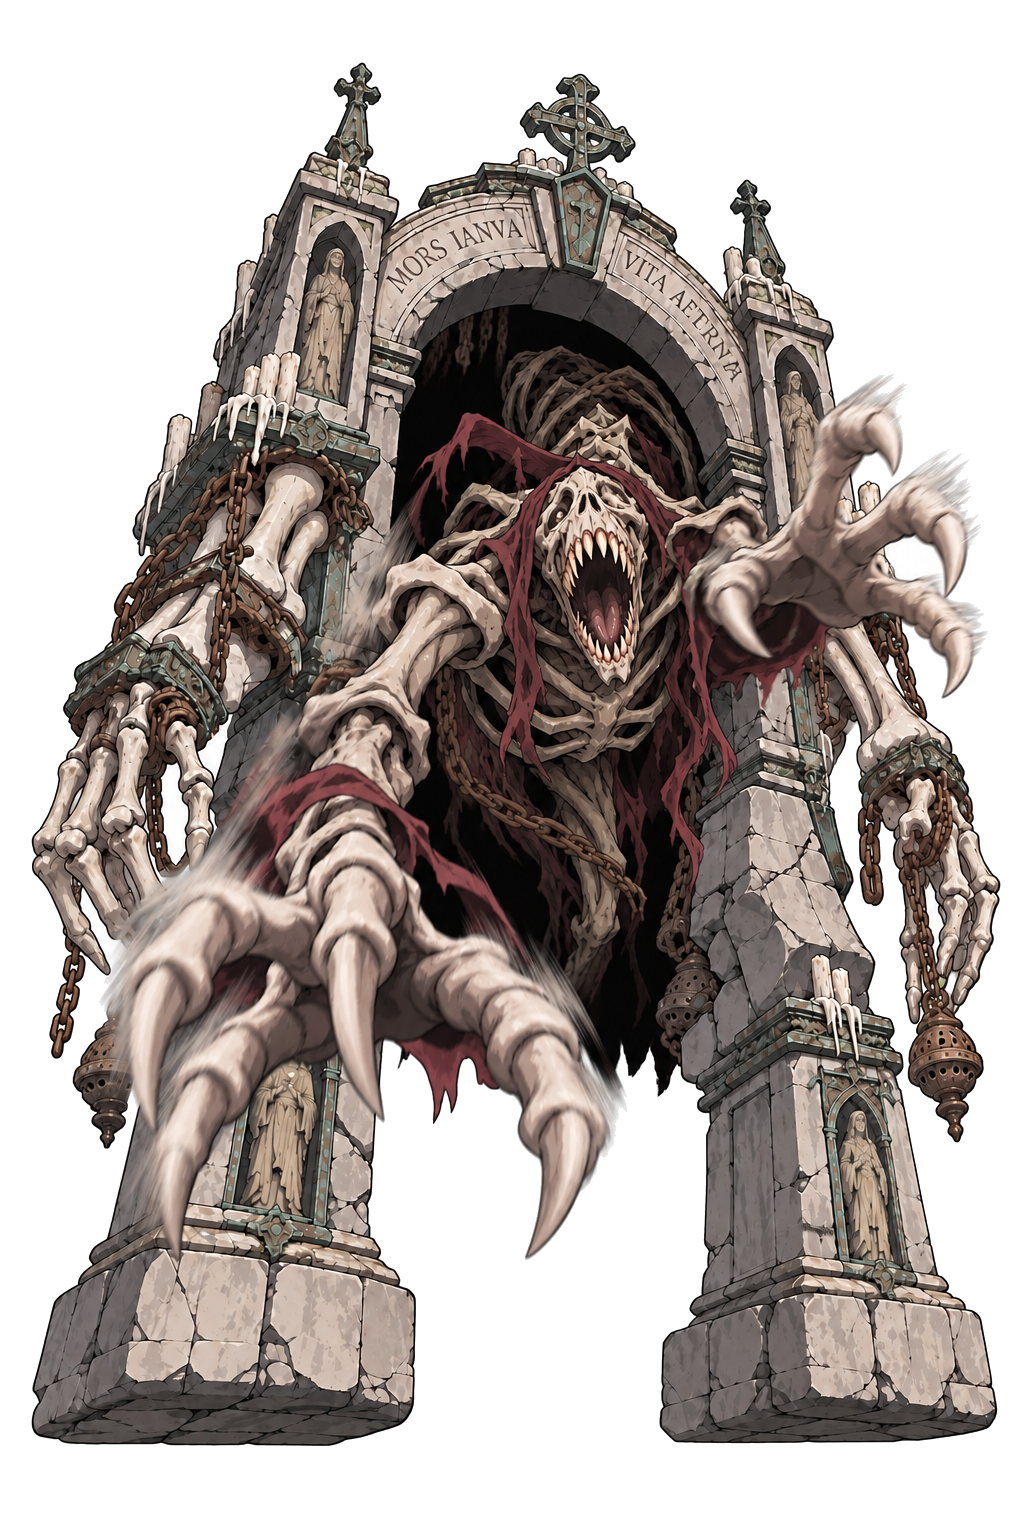
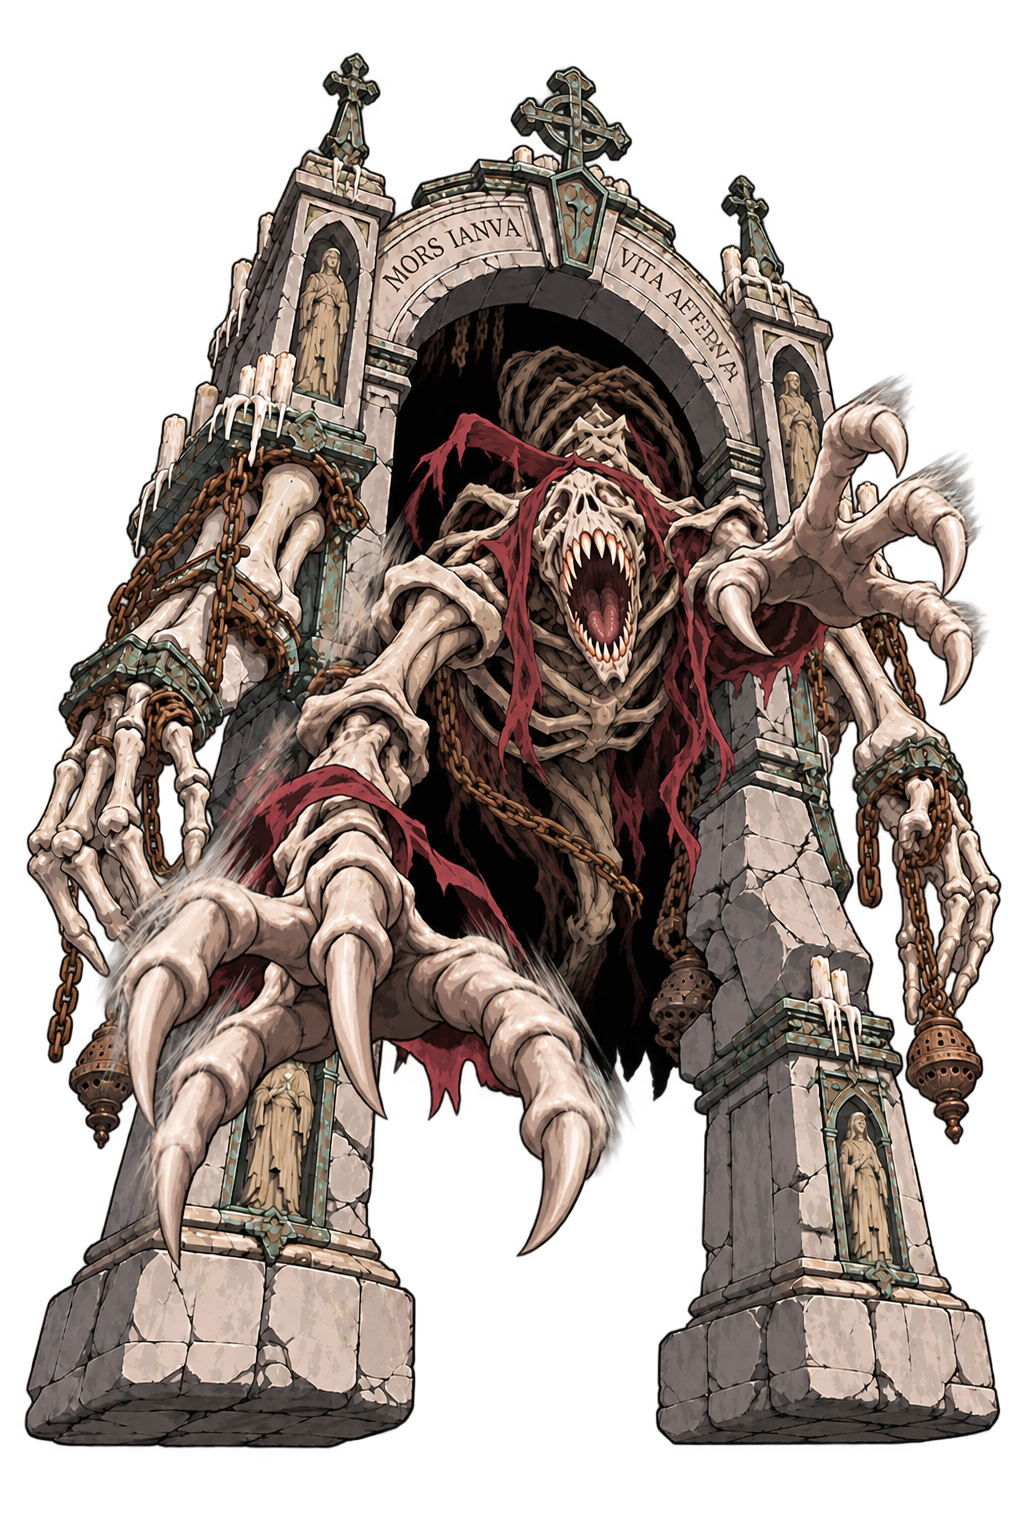
敵人：墓香爐 B 強透視重出、拱門守衛 B 重繪去背；墓犬換種子重跑（tomb_kf3）

Changed region(s): [[0.0, 0.0306, 1.0, 0.9492]]

diff --git a/tools/enemy_review/tomb_redo2.html b/tools/enemy_review/tomb_redo2.html
@@ -17,7 +17,7 @@ h1{font-size:18px;margin:12px 16px}
 #zoom{position:fixed;inset:0;background:rgba(0,0,0,.9);display:none;align-items:center;justify-content:center;cursor:zoom-out}
 #zoom img{max-width:96vw;max-height:96vh}
 </style></head><body>
-<h1>伊甸古墓：重出的攻擊 B（抬棺列已回收）（11-22）</h1>
+<h1>伊甸古墓：第三輪：待審的 B（11-22）</h1>
 <div class="note">左＝原圖 A（中立）、右＝新 B（GPT 真透明）。點圖放大。點頭才跑 Wan。</div>
 <div class="grid" id="g"></div>
 <h1>骷髏塚：散骨（攻擊時程式讓它們高速飛向鏡頭）</h1>
@@ -26,11 +26,8 @@ h1{font-size:18px;margin:12px 16px}
 <script>
 const R='../../resources/enemy/_neutral_refs/tomb_kf/';
 const L=[
- ['arch_warden','拱門守衛','拱門陰影裡鑽出怪物，雙爪撲向鏡頭'],
- ['crypt_hound','墓犬','正面撲向鏡頭（⚠ 嘴是齜牙，沒張口咬下）'],
- ['chain_hanged','吊鍊屍','盪過來、雙爪往鏡頭耙；比原圖大（去背重做：GPT 重繪）'],
- ['reliquary_hand','聖匣之手','11-22 第三版：整隻手往前倒、爪尖觸地（五指、原色）；其他 4 張已在跑 Wan'],
- ['grave_censer','墓香爐','雙香爐用鏈條甩向鏡頭（11-22 改：用甩的）'],
+ ['grave_censer','墓香爐','11-22 晚：強透視重出，香爐砸向鏡頭（甩的 B 不夠攻擊性）'],
+ ['arch_warden','拱門守衛','11-22 晚：同一張 B 改 GPT 重繪去背（舊的是去背失敗的）'],
 ];
 const g=document.getElementById('g');
 for(const [n,t,d] of L){
